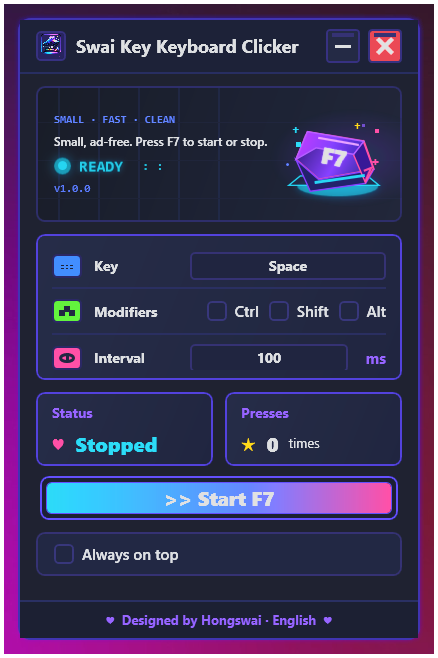
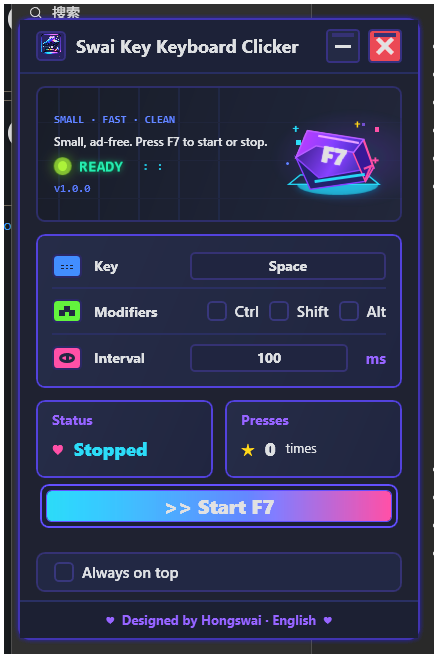
Update hero animation layout screenshots

diff --git a/MainWindow.xaml b/MainWindow.xaml
@@ -215,9 +215,9 @@
       <Grid Grid.Row="1" Margin="16,12,16,0">
         <Grid.RowDefinitions>
           <RowDefinition Height="136" />
-          <RowDefinition Height="158" />
-          <RowDefinition Height="86" />
-          <RowDefinition Height="54" />
+          <RowDefinition Height="166" />
+          <RowDefinition Height="90" />
+          <RowDefinition Height="56" />
           <RowDefinition Height="*" />
         </Grid.RowDefinitions>
 
@@ -234,10 +234,13 @@
               <EventTrigger RoutedEvent="FrameworkElement.Loaded">
                 <BeginStoryboard>
                   <Storyboard RepeatBehavior="Forever" AutoReverse="True">
-                    <DoubleAnimation Storyboard.TargetName="ReadyGlow" Storyboard.TargetProperty="Opacity" From="0.42" To="0.9" Duration="0:0:1.45" />
-                    <DoubleAnimation Storyboard.TargetName="ReadyDot" Storyboard.TargetProperty="Opacity" From="0.72" To="1" Duration="0:0:1.45" />
-                    <DoubleAnimation Storyboard.TargetName="ReadyText" Storyboard.TargetProperty="Opacity" From="0.78" To="1" Duration="0:0:1.45" />
+                    <DoubleAnimation Storyboard.TargetName="ReadyGlow" Storyboard.TargetProperty="Opacity" From="0.25" To="0.95" Duration="0:0:1.45" />
+                    <DoubleAnimation Storyboard.TargetName="ReadyDot" Storyboard.TargetProperty="Opacity" From="0.82" To="1" Duration="0:0:1.45" />
+                    <DoubleAnimation Storyboard.TargetName="ReadyText" Storyboard.TargetProperty="Opacity" From="0.7" To="1" Duration="0:0:1.45" />
+                    <DoubleAnimation Storyboard.TargetName="ReadyPulse" Storyboard.TargetProperty="(UIElement.RenderTransform).(ScaleTransform.ScaleX)" From="0.86" To="1.16" Duration="0:0:1.45" />
+                    <DoubleAnimation Storyboard.TargetName="ReadyPulse" Storyboard.TargetProperty="(UIElement.RenderTransform).(ScaleTransform.ScaleY)" From="0.86" To="1.16" Duration="0:0:1.45" />
                     <DoubleAnimation Storyboard.TargetName="KeyGlow" Storyboard.TargetProperty="Opacity" From="0.45" To="0.75" Duration="0:0:1.65" />
+                    <DoubleAnimation Storyboard.TargetName="KeyFloat" Storyboard.TargetProperty="Y" From="0" To="-3" Duration="0:0:1.8" />
                   </Storyboard>
                 </BeginStoryboard>
               </EventTrigger>
@@ -274,17 +277,20 @@
                 <TextBlock Text="SMALL · FAST · CLEAN" Foreground="#5B7CFF" FontFamily="Consolas" FontSize="11" FontWeight="Bold" />
                 <TextBlock x:Name="HeroSubtitleText" Text="小体积、无广告。F7 启动或停止。" Margin="0,7,0,0" Foreground="{StaticResource TextPrimary}" FontSize="12" FontWeight="SemiBold" TextWrapping="Wrap" MaxWidth="220" LineHeight="15" />
                 <StackPanel Orientation="Horizontal" Margin="0,8,0,0">
-                  <Grid Width="17" Height="17" VerticalAlignment="Center">
-                    <Ellipse x:Name="ReadyGlow" Fill="{StaticResource Cyan}" Opacity="0.55">
+                  <Grid x:Name="ReadyPulse" Width="17" Height="17" VerticalAlignment="Center" RenderTransformOrigin="0.5,0.5">
+                    <Grid.RenderTransform>
+                      <ScaleTransform ScaleX="1" ScaleY="1" />
+                    </Grid.RenderTransform>
+                    <Ellipse x:Name="ReadyGlow" Fill="#A3E635" Opacity="0.55">
                       <Ellipse.Effect>
-                        <DropShadowEffect BlurRadius="16" ShadowDepth="0" Opacity="0.9" Color="#22D3EE" />
+                        <DropShadowEffect BlurRadius="18" ShadowDepth="0" Opacity="0.95" Color="#A3E635" />
                       </Ellipse.Effect>
                     </Ellipse>
-                    <Ellipse x:Name="ReadyDot" Width="9" Height="9" Fill="{StaticResource Cyan}" HorizontalAlignment="Center" VerticalAlignment="Center" />
+                    <Ellipse x:Name="ReadyDot" Width="9" Height="9" Fill="#A3E635" HorizontalAlignment="Center" VerticalAlignment="Center" />
                   </Grid>
-                  <TextBlock x:Name="ReadyText" Text="READY" Margin="8,0,0,0" Foreground="{StaticResource Cyan}" FontFamily="Consolas" FontSize="16" FontWeight="Bold" VerticalAlignment="Center">
+                  <TextBlock x:Name="ReadyText" Text="READY" Margin="8,0,0,0" Foreground="#22F3B4" FontFamily="Consolas" FontSize="16" FontWeight="Bold" VerticalAlignment="Center">
                     <TextBlock.Effect>
-                      <DropShadowEffect BlurRadius="8" ShadowDepth="0" Opacity="0.65" Color="#22D3EE" />
+                      <DropShadowEffect BlurRadius="9" ShadowDepth="0" Opacity="0.78" Color="#22F3B4" />
                     </TextBlock.Effect>
                   </TextBlock>
                   <TextBlock Text=" : :" Margin="12,0,0,0" Foreground="{StaticResource Cyan}" FontFamily="Consolas" FontSize="13" FontWeight="Bold" Opacity="0.8" VerticalAlignment="Center" />
@@ -293,6 +299,9 @@
               </StackPanel>
 
               <Viewbox Grid.Column="1" Width="108" Height="88" HorizontalAlignment="Right" VerticalAlignment="Center" Stretch="Uniform">
+              <Viewbox.RenderTransform>
+                <TranslateTransform x:Name="KeyFloat" Y="0" />
+              </Viewbox.RenderTransform>
               <Canvas Width="150" Height="122" ClipToBounds="False">
                 <Ellipse x:Name="KeyGlow" Width="112" Height="28" Canvas.Left="24" Canvas.Top="92" Fill="#22D3EE" Opacity="0.58">
                   <Ellipse.Effect>
@@ -422,32 +431,32 @@
             <ColumnDefinition Width="12" />
             <ColumnDefinition Width="*" />
           </Grid.ColumnDefinitions>
-          <Border Padding="14,9" CornerRadius="8" Background="{StaticResource CardGradient}" BorderBrush="{StaticResource StrokeHot}" BorderThickness="2">
+          <Border Padding="14,8" CornerRadius="8" Background="{StaticResource CardGradient}" BorderBrush="{StaticResource StrokeHot}" BorderThickness="2">
             <StackPanel>
               <TextBlock x:Name="StatusLabel" Text="状态" Foreground="{StaticResource Purple}" FontSize="14" FontWeight="Bold" />
-              <StackPanel Orientation="Horizontal" Margin="0,9,0,0">
-                <TextBlock Text="♥" Foreground="{StaticResource Pink}" FontSize="18" FontWeight="Black" VerticalAlignment="Center" />
-                <TextBlock x:Name="StatusText" Text="已停止" Margin="11,0,0,0" Foreground="{StaticResource Cyan}" FontSize="20" FontWeight="Black" VerticalAlignment="Center" />
+              <StackPanel Orientation="Horizontal" Margin="0,8,0,0">
+                <TextBlock Text="♥" Foreground="{StaticResource Pink}" FontSize="17" FontWeight="Black" VerticalAlignment="Center" />
+                <TextBlock x:Name="StatusText" Text="已停止" Margin="10,0,0,0" Foreground="{StaticResource Cyan}" FontSize="18" FontWeight="Black" VerticalAlignment="Center" />
               </StackPanel>
             </StackPanel>
           </Border>
 
-          <Border Grid.Column="2" Padding="14,9" CornerRadius="8" Background="{StaticResource CardGradient}" BorderBrush="{StaticResource StrokeHot}" BorderThickness="2">
+          <Border Grid.Column="2" Padding="14,8" CornerRadius="8" Background="{StaticResource CardGradient}" BorderBrush="{StaticResource StrokeHot}" BorderThickness="2">
             <StackPanel>
               <TextBlock x:Name="CountLabel" Text="按键次数" Foreground="{StaticResource Purple}" FontSize="14" FontWeight="Bold" />
-              <StackPanel Orientation="Horizontal" Margin="0,9,0,0">
-                <TextBlock Text="★" Foreground="{StaticResource Yellow}" FontSize="18" FontWeight="Black" VerticalAlignment="Center" />
-                <TextBlock x:Name="CountText" Text="0" Margin="11,0,0,0" Foreground="{StaticResource TextPrimary}" FontSize="20" FontWeight="Black" VerticalAlignment="Center" />
+              <StackPanel Orientation="Horizontal" Margin="0,8,0,0">
+                <TextBlock Text="★" Foreground="{StaticResource Yellow}" FontSize="17" FontWeight="Black" VerticalAlignment="Center" />
+                <TextBlock x:Name="CountText" Text="0" Margin="10,0,0,0" Foreground="{StaticResource TextPrimary}" FontSize="18" FontWeight="Black" VerticalAlignment="Center" />
                 <TextBlock x:Name="CountUnitText" Text="次" Margin="10,0,0,2" Foreground="{StaticResource TextPrimary}" FontSize="13" VerticalAlignment="Center" />
               </StackPanel>
             </StackPanel>
           </Border>
         </Grid>
 
-        <Button x:Name="ToggleButton" Grid.Row="3" Margin="4,10,4,0" Content=">> 开始 F7" Style="{StaticResource PrimaryButton}" Click="ToggleButton_Click" />
+        <Button x:Name="ToggleButton" Grid.Row="3" Margin="4,6,4,0" VerticalAlignment="Top" Content=">> 开始 F7" Style="{StaticResource PrimaryButton}" Click="ToggleButton_Click" />
 
-        <Grid Grid.Row="4" Margin="0,12,0,0">
-          <Border Height="44" VerticalAlignment="Top" CornerRadius="8" Background="#111735" BorderBrush="{StaticResource Stroke}" BorderThickness="2">
+        <Grid Grid.Row="4" Margin="0,0,0,0">
+          <Border Height="40" VerticalAlignment="Bottom" Margin="0,0,0,8" CornerRadius="8" Background="#111735" BorderBrush="{StaticResource Stroke}" BorderThickness="2">
             <Grid>
               <CheckBox x:Name="TopmostBox" Margin="16,0,0,0" Content="窗口置顶" VerticalAlignment="Center" HorizontalAlignment="Left" Style="{StaticResource SwaiCheckBox}" Checked="TopmostBox_Changed" Unchecked="TopmostBox_Changed" />
             </Grid>